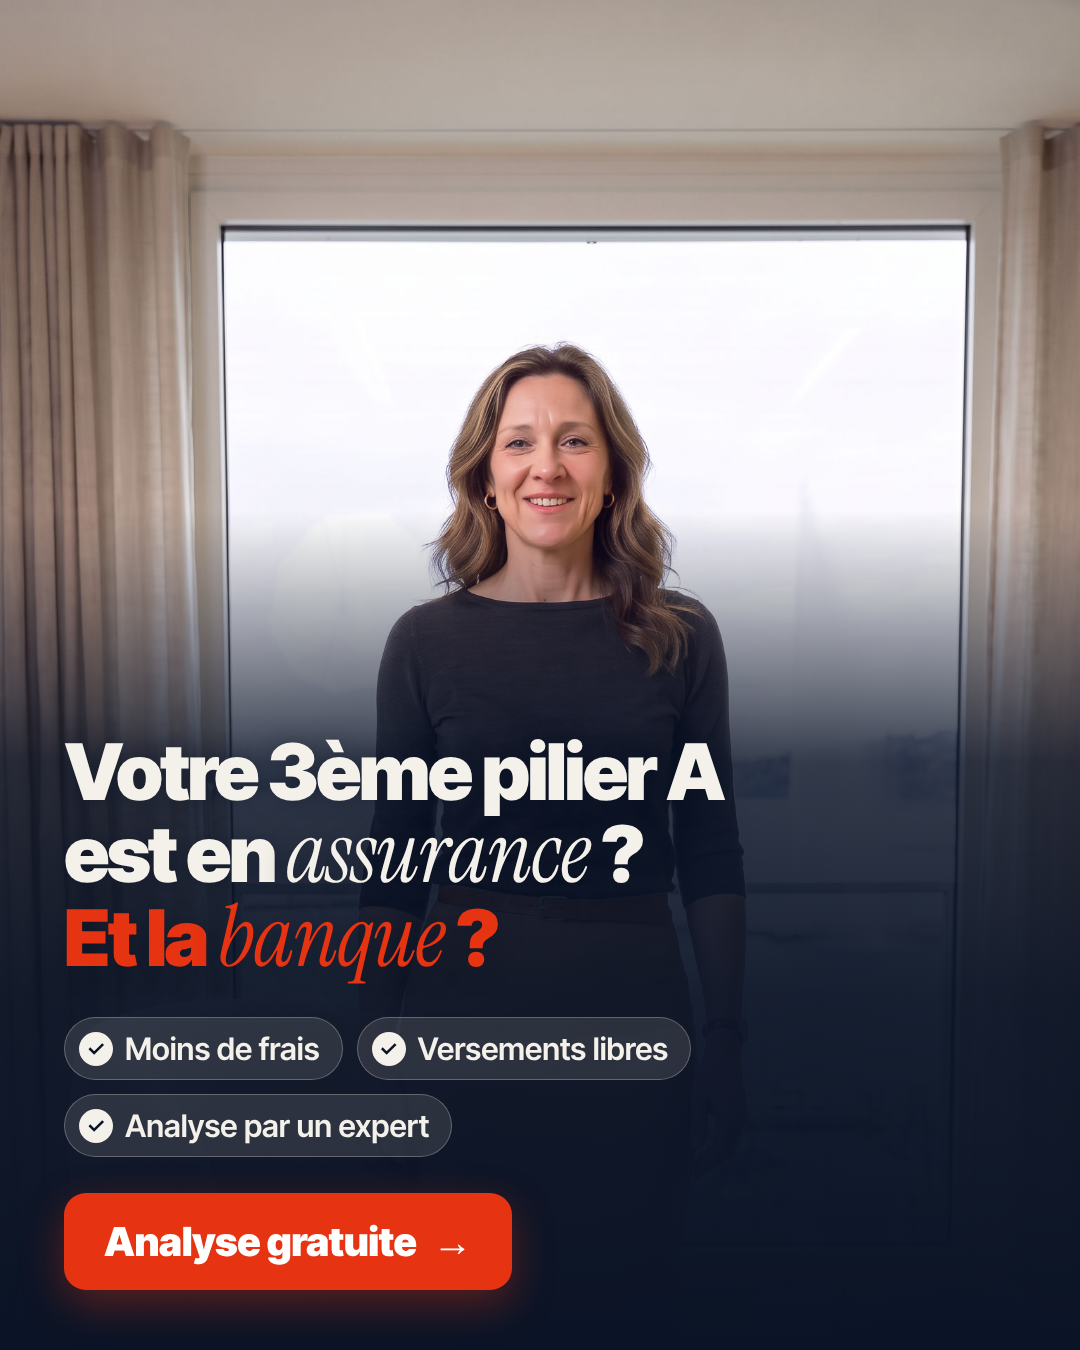
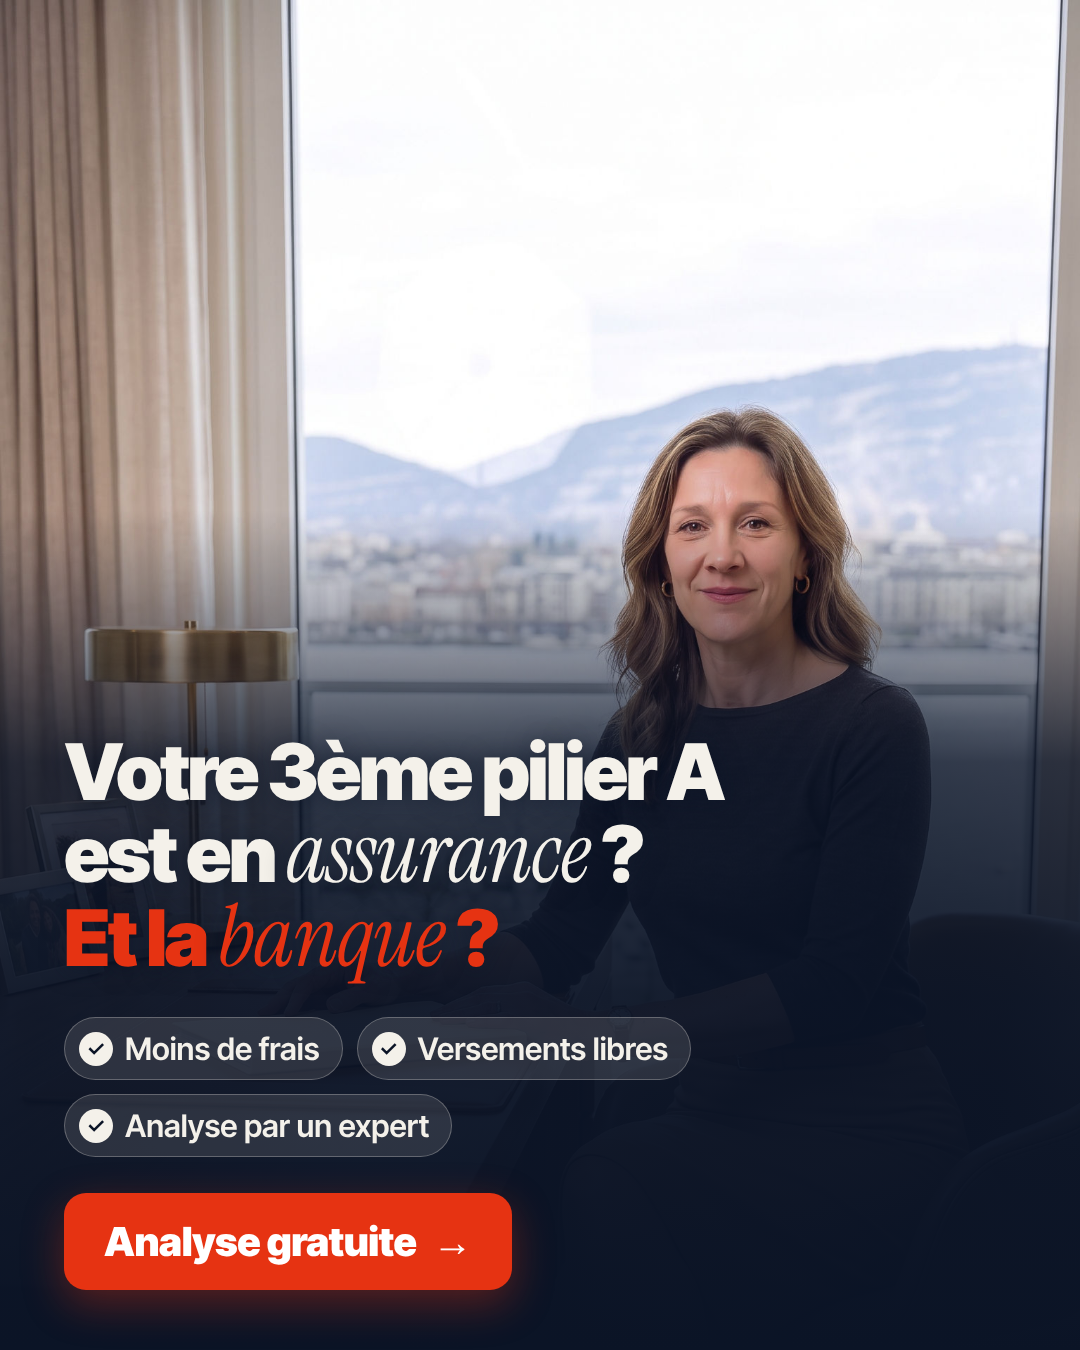
Visuels fixes : V1 avec vue lisible sur le Salève, V2 en tenue DA (images clés existantes)
Claude-Session: https://claude.ai/code/session_01Ce2igHwq61LuWqDpyEBitL

diff --git a/creas/creas-index.md b/creas/creas-index.md
@@ -15,15 +15,15 @@ Statuts possibles : à tester / en test / gagnante / coupée.
 | `creas/exports/3emePilierA_A_4x5.mp4` | idem | 4:5 | 33,3 s | 29,2 Mo | https://raw.githubusercontent.com/kpaulin1995-code/cabinet-3pilierA-ads/main/creas/exports/3emePilierA_A_4x5.mp4 | à tester |
 | `creas/exports/3emePilierA_C_9x16.mp4` | Version C, motion « soft 3D » (piliers ioniques) | 9:16 | 39,3 s | 52,8 Mo | https://raw.githubusercontent.com/kpaulin1995-code/cabinet-3pilierA-ads/main/creas/exports/3emePilierA_C_9x16.mp4 | à tester |
 | `creas/exports/3emePilierA_C_4x5.mp4` | idem | 4:5 | 39,3 s | 56,7 Mo | https://raw.githubusercontent.com/kpaulin1995-code/cabinet-3pilierA-ads/main/creas/exports/3emePilierA_C_4x5.mp4 | à tester |
-| `creas/exports/visuels/3emePilierA_V1-banque_4x5.png` | Visuel fixe, hook « Votre 3ème pilier A est en assurance ? Et la banque ? » (femme bureau Jet d'eau) | 4:5 | fixe | PNG 1080×1350 | https://raw.githubusercontent.com/kpaulin1995-code/cabinet-3pilierA-ads/main/creas/exports/visuels/3emePilierA_V1-banque_4x5.png | à tester |
-| `creas/exports/visuels/3emePilierA_V1-banque_9x16.png` | Visuel fixe, hook « Votre 3ème pilier A est en assurance ? Et la banque ? » (femme bureau Jet d'eau) | 9:16 | fixe | PNG 1080×1920 | https://raw.githubusercontent.com/kpaulin1995-code/cabinet-3pilierA-ads/main/creas/exports/visuels/3emePilierA_V1-banque_9x16.png | à tester |
-| `creas/exports/visuels/3emePilierA_V2-vendu_4x5.png` | Visuel fixe, hook « Votre 3ème pilier A, vous l'avez choisi… ou on vous l'a vendu ? » (femme bureau vue Salève) | 4:5 | fixe | PNG 1080×1350 | https://raw.githubusercontent.com/kpaulin1995-code/cabinet-3pilierA-ads/main/creas/exports/visuels/3emePilierA_V2-vendu_4x5.png | à tester |
-| `creas/exports/visuels/3emePilierA_V2-vendu_9x16.png` | Visuel fixe, hook « Votre 3ème pilier A, vous l'avez choisi… ou on vous l'a vendu ? » (femme bureau vue Salève) | 9:16 | fixe | PNG 1080×1920 | https://raw.githubusercontent.com/kpaulin1995-code/cabinet-3pilierA-ads/main/creas/exports/visuels/3emePilierA_V2-vendu_9x16.png | à tester |
+| `creas/exports/visuels/3emePilierA_V1-banque_4x5.png` | Visuel fixe, hook « Votre 3ème pilier A est en assurance ? Et la banque ? » (femme assise au bureau, vue sur le Salève, tenue DA) | 4:5 | fixe | PNG 1080×1350 | https://raw.githubusercontent.com/kpaulin1995-code/cabinet-3pilierA-ads/main/creas/exports/visuels/3emePilierA_V1-banque_4x5.png | à tester |
+| `creas/exports/visuels/3emePilierA_V1-banque_9x16.png` | Visuel fixe, hook « Votre 3ème pilier A est en assurance ? Et la banque ? » (femme assise au bureau, vue sur le Salève, tenue DA) | 9:16 | fixe | PNG 1080×1920 | https://raw.githubusercontent.com/kpaulin1995-code/cabinet-3pilierA-ads/main/creas/exports/visuels/3emePilierA_V1-banque_9x16.png | à tester |
+| `creas/exports/visuels/3emePilierA_V2-vendu_4x5.png` | Visuel fixe, hook « Votre 3ème pilier A, vous l'avez choisi… ou on vous l'a vendu ? » (femme debout devant la bibliothèque, tenue DA) | 4:5 | fixe | PNG 1080×1350 | https://raw.githubusercontent.com/kpaulin1995-code/cabinet-3pilierA-ads/main/creas/exports/visuels/3emePilierA_V2-vendu_4x5.png | à tester |
+| `creas/exports/visuels/3emePilierA_V2-vendu_9x16.png` | Visuel fixe, hook « Votre 3ème pilier A, vous l'avez choisi… ou on vous l'a vendu ? » (femme debout devant la bibliothèque, tenue DA) | 9:16 | fixe | PNG 1080×1920 | https://raw.githubusercontent.com/kpaulin1995-code/cabinet-3pilierA-ads/main/creas/exports/visuels/3emePilierA_V2-vendu_9x16.png | à tester |
 
 
 Notes :
 - AB-hookA : version du 27/10 avec fins de plans face caméra recoupées (plus de lèvres qui bougent après la voix off).
 - Long « vendu » : fins de plans revérifiées le 02/11 (corrélation d'enveloppe). Seul le plan 2 (« …en banque ? ») débordait d'environ 0,4 s : transition suivante avancée. MP4 Long remplacés le 02/11 (rendu natif, sous 95 Mo).
-- Visuels fixes : sans argument fiscal, utilisables pour les deux zones. Puces : Moins de frais / Versements libres / Analyse par un expert ; bouton « Analyse gratuite ».
+- Visuels fixes (v2 du 02/11, corrections de Kevin : V1 vue lisible, V2 tenue DA ; images clés existantes, coût 0 $) : sans argument fiscal, utilisables pour les deux zones. Puces : Moins de frais / Versements libres / Analyse par un expert ; bouton « Analyse gratuite ».
 - ⚠ Conformité frontaliers : les 4 vidéos (A, C, Long, AB-hookA) disent « même avantage fiscal » en voix off et en sous-titres. À ne pas diffuser aux frontaliers en l'état (CLAUDE.md §3.8) : il faudrait une variante sans cette phrase.
 - Versions B et D (autres hooks) : écrites, pas produites.
